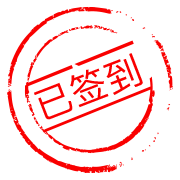
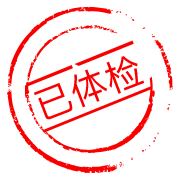
修改下拉和签到

Changed region(s): [[0.3889, 0.2778, 0.8056, 0.6111]]

diff --git a/pages/customer/index/index.js b/pages/customer/index/index.js
@@ -3,16 +3,19 @@ import { showText } from '/app.js';
 import { config } from '/app.js';
 let http = new HTTP(), page = 1;
 var _my$getSystemInfoSync = my.getSystemInfoSync(), windowHeight = _my$getSystemInfoSync.windowHeight;
-var scrollHeight = windowHeight-110;
+var scrollHeight = windowHeight - 110;
 Page({
   data: {
     toUpper: 'toUpper',
     pageHeight: 1200,//scroll-view触底高度
     scrollHeight: 0,//最小scroll-view高度
-    dataFinish: false,//数据加载完全
-    noDataState: false,//无数据状态
     animationInfo: {},
-
+    topPosition: 0,
+    old: {
+      scrolTop: 0,
+    },
+    oldheight: 0,//标签位置
+    newheight: 0, //新窗口高度
     list: [
       // {
       //   sendDate: '',
@@ -31,16 +34,18 @@ Page({
 
   },
   onLoad(query) {
-    let h = 800 * config.pageSize;
+    let h = 760 * 3;
     this.setData({
       'scrollHeight': scrollHeight,
       'pageHeight': h
     })
     page = 1;
+
     this.setData({
       ['list']: [],
     });
     this.onRequest();
+
     // let that = this;
 
     // // 初始发送日期
@@ -86,19 +91,29 @@ Page({
         size: 3,
       }),
       success: (res) => {
+        console.log(res);
+        res=res.reverse();
         let len = res.length;
+        let h2 = 0;
         if (page == 1) {
-          if (len < config.pageSize) {
-            let h = 800 * len;
-            that.setData({
-              'pageHeight': h
-            })
+          let len1 = 0, len2 = 0;
+          for (let i = 0; i < len; i++) {
+            if (res[i].type = 0) {
+              len1++;
+            } else {
+              len2++;
+            }
           }
+        
+          let h = 760 * len1 + 660 * len2;
+          that.setData({
+            'pageHeight': h
+          })
+
           if (len == 0) {
             that.setData({
               'noDataState': true,
               'loadingState': false
-
             })
             return
           }
@@ -109,7 +124,7 @@ Page({
           })
           return
         }
-        if (len < config.pageSize) {
+        if (len < 3) {
           that.setData({
             'dataFinish': true
           })
@@ -117,16 +132,53 @@ Page({
         page++;
         var data = that.data.list;
         data = res.concat(data);
-        var listIndex = 'list';
         that.setData({
-          [listIndex]: data,
+          'list': data,
           'loadingState': false
         });
+        
+         if (page == 2) {
+        let htop = this.data.pageHeight
+        dd.pageScrollTo({
+          scrollTop: htop
+        })
+        } else {
+          that.data.topPosition = that.data.old.scrolTop
+          that.$nextTick(function() {
+            that.data.topPosition = that.data.oldheight
+          });
+        }
+
+        // setTimeout(function() {
+        //   if (page == 2) {
+        //     let htop = that.data.pageHeight - 1000
+        //       dd.pageScrollTo({
+        //         scrollTop: htop
+        //       })
+        //     // that.setData({
+        //     //   topPosition: htop
+        //     // })
+        //   }
+        // }, 1000)
+
       },
       fail: function(res) {
         dd.alert({ content: JSON.stringify(res), buttonText: '好的' });
       }
     })
+  },
+  onScroll(e) {
+    // let newH = e.detail.scrollHeight
+    // if (this.newheight == 0) {
+    //   this.newheight = newH
+    // } else if (this.newheight != newH) {
+    //   this.oldheight = newH - this.newheight
+    //   this.newheight = newH
+    //   console.log(this.newheight, this.oldheight)
+    // }
+    // this.old.scrolTop = e.detail.scrollTop
+
+    // console.log(e.detail.scrollTop + 'sdsdfs');
   },
   toSignIn(e) {// 签到
     let that = this;
@@ -151,9 +203,13 @@ Page({
     });
   },
   toApplyDate(e) {//去申请改期
-    dd.navigateTo({
-      url: '../apply-changeDate/apply-changeDate?examinationId=' + e.target.dataset.val,
-    });
+
+    // this.setData({
+    //   topPosition: htop
+    // })
+    // dd.navigateTo({
+    //   url: '../apply-changeDate/apply-changeDate?examinationId=' + e.target.dataset.val,
+    // });
   },
   toConfirm(e) {// 确认可以按时体检
     let that = this;
